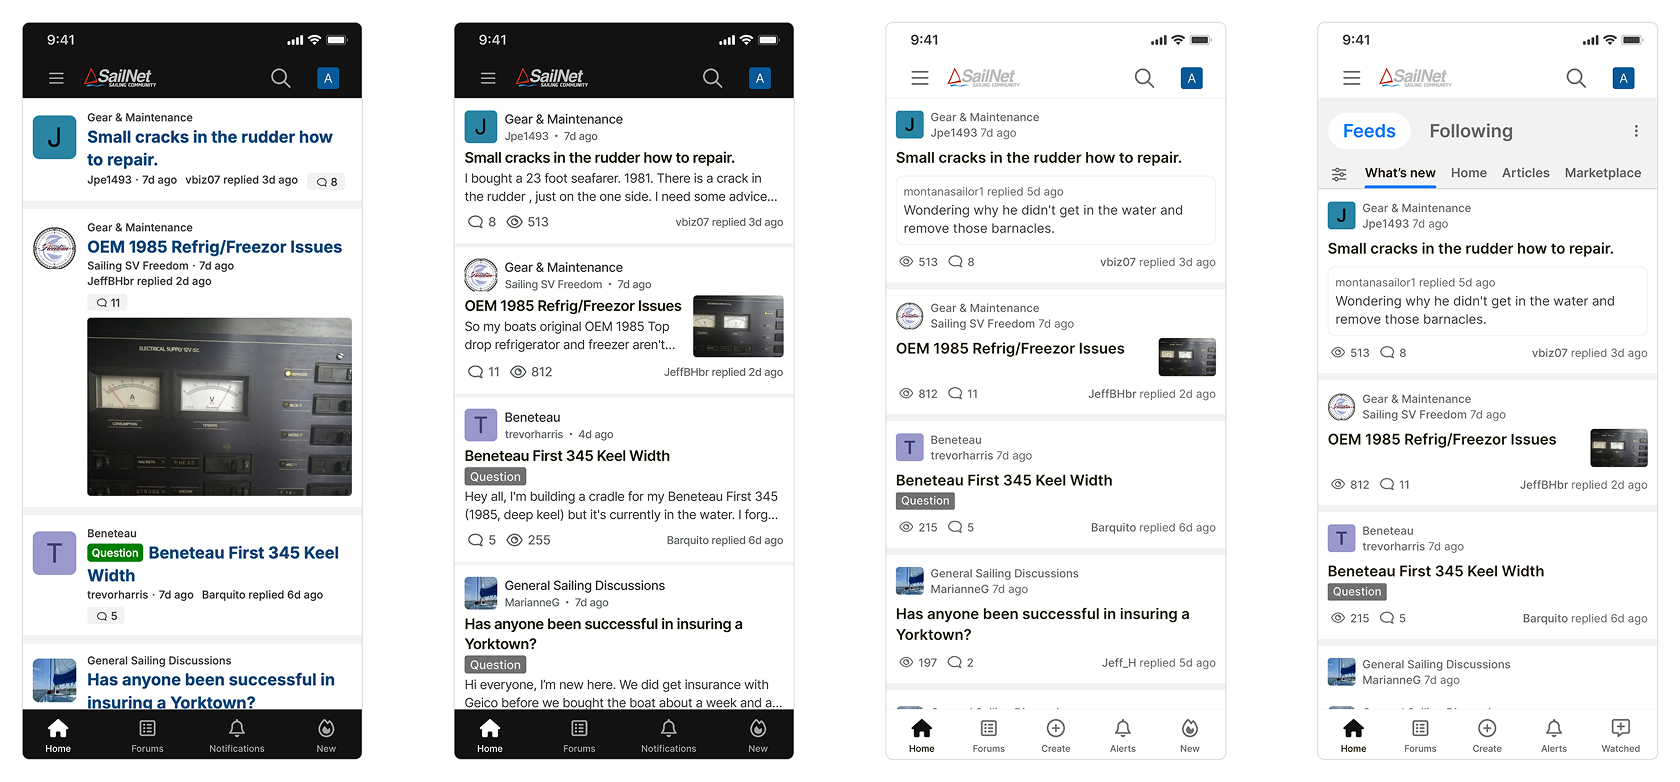
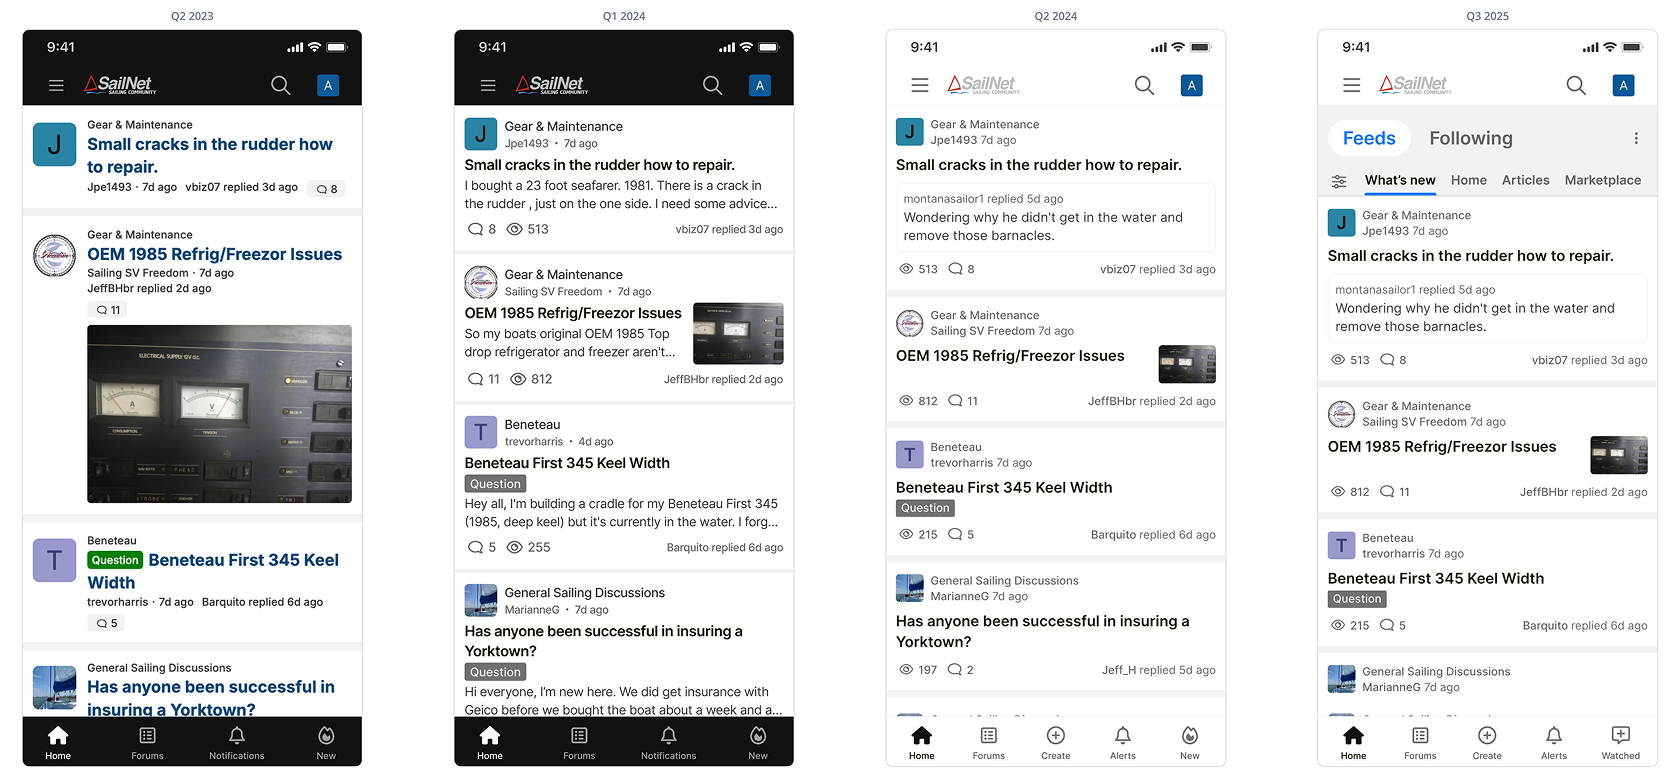
Fora copy updates

diff --git a/src/TileViews/Fora.jsx b/src/TileViews/Fora.jsx
@@ -22,11 +22,11 @@ class Fora extends Component {
             <img src={this._fetchImage('fora.png')} alt='Fora Mobile App' className="content-img tileImg"></img>
           </div>
           <div className="content-caption">
-            <h2>Fora, 1 app for 1000+ online communities</h2>
+            <h2>Fora, one app for 1000+ online communities</h2>
             <p className="content-desc">
               Fora is the world’s largest web-based forum software platform powering over 1000 unique communities with more than 100 million monthly active users. 
               <br/><br/>
-              Each community operates independently under a shared web infrastructure, but for users, being part of multiple sites meant juggling separate logins and navigating a fragmented experience.
+              Each community operates independently under a shared web infrastructure, but for web users, being part of multiple sites means juggling separate logins and navigating a fragmented experience.
             </p>
           </div>
         </div>
@@ -62,13 +62,13 @@ class Fora extends Component {
           <div className="content-caption">
             <h2>1 to 1000+</h2>
             <p className="content-desc">
-                The next phase was about scaling thoughtfully. We launched to 10 additional communities, then 1000 soon after. Meanwhile, we identified key areas to invest in that attracts new members as well as familiarity to a power-user:
+                The next phase was about scaling thoughtfully. We launched to 10 additional communities, then 1000 soon after. Meanwhile, we identified key areas to invest in:
                 <ul>
-                    <li>Easier content creation</li>
                     <li>Multi-community experience</li>
+                    <li>Easier content creation</li>
                     <li>Seamless login experience</li>
                 </ul>
-                Over the next few quarters, we tackled these challenges through constant iteration, prioritization, and balancing user needs with platform constraints.
+                Over the next few quarters, we tackled these challenges through the lens of prioritizing retention, engagement, or traffic, while balancing user needs with platform constraints.
             </p>
           </div>
         </div>
@@ -81,7 +81,7 @@ class Fora extends Component {
           <div className="content-img-wrapper">
             <img src={this._fetchImage('spot1.png')} alt='Instant messaging spot icon' className="spot-img"></img>
             <h2>Retention</h2>
-            <p className="content-desc">Early retention was a challenge, but ongoing nativization efforts is moving the needle in stickiness, making the app feel faster, more intuitive, and better aligned with mobile user expectations.</p>
+            <p className="content-desc">Early retention was a challenge, but ongoing nativization efforts are moving the needle in stickiness, making the app feel faster, more intuitive, and better aligned with mobile user expectations.</p>
           </div>
           <div className="content-img-wrapper">
             <img src={this._fetchImage('spot2.png')} alt='Bell spot icon' className="spot-img"></img>
@@ -91,7 +91,7 @@ class Fora extends Component {
           <div className="content-img-wrapper">
             <img src={this._fetchImage('spot3.png')} alt='Rocket spot icon' className="spot-img"></img>
             <h2>Traffic</h2>
-            <p className="content-desc">A/B testing of value propositions helps us refine messaging towards different user segments drive new downloads. Not bad for a team of non-marketers learning on the fly.</p>
+            <p className="content-desc">Downloads tapered after launch. A/B testing value propositions helped us refine messaging for different segments and drive growth. Not bad for a team of non-marketers learning on the fly.</p>
           </div>
         </div>
 
